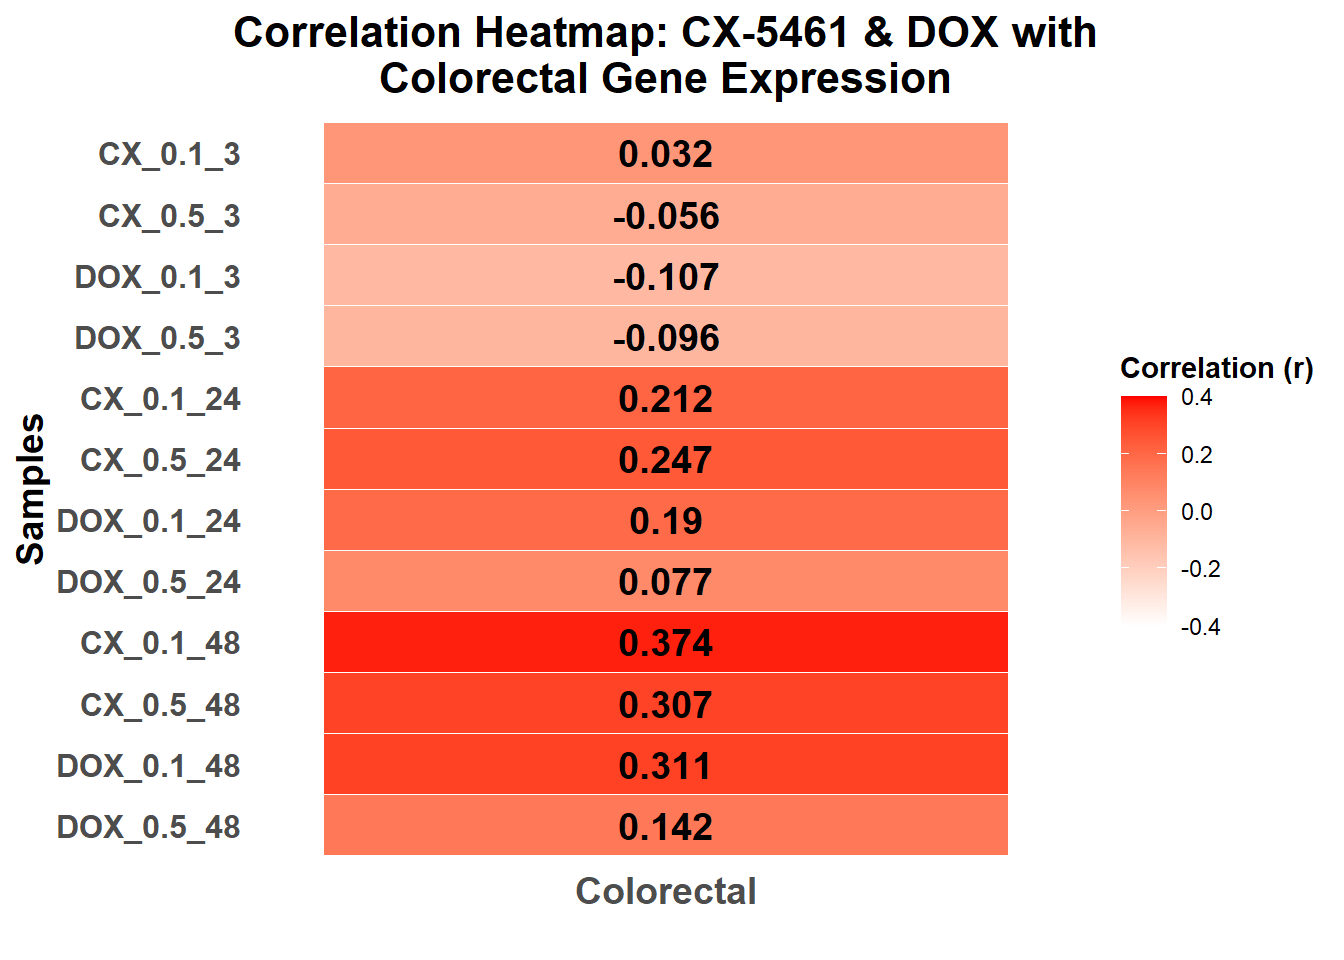
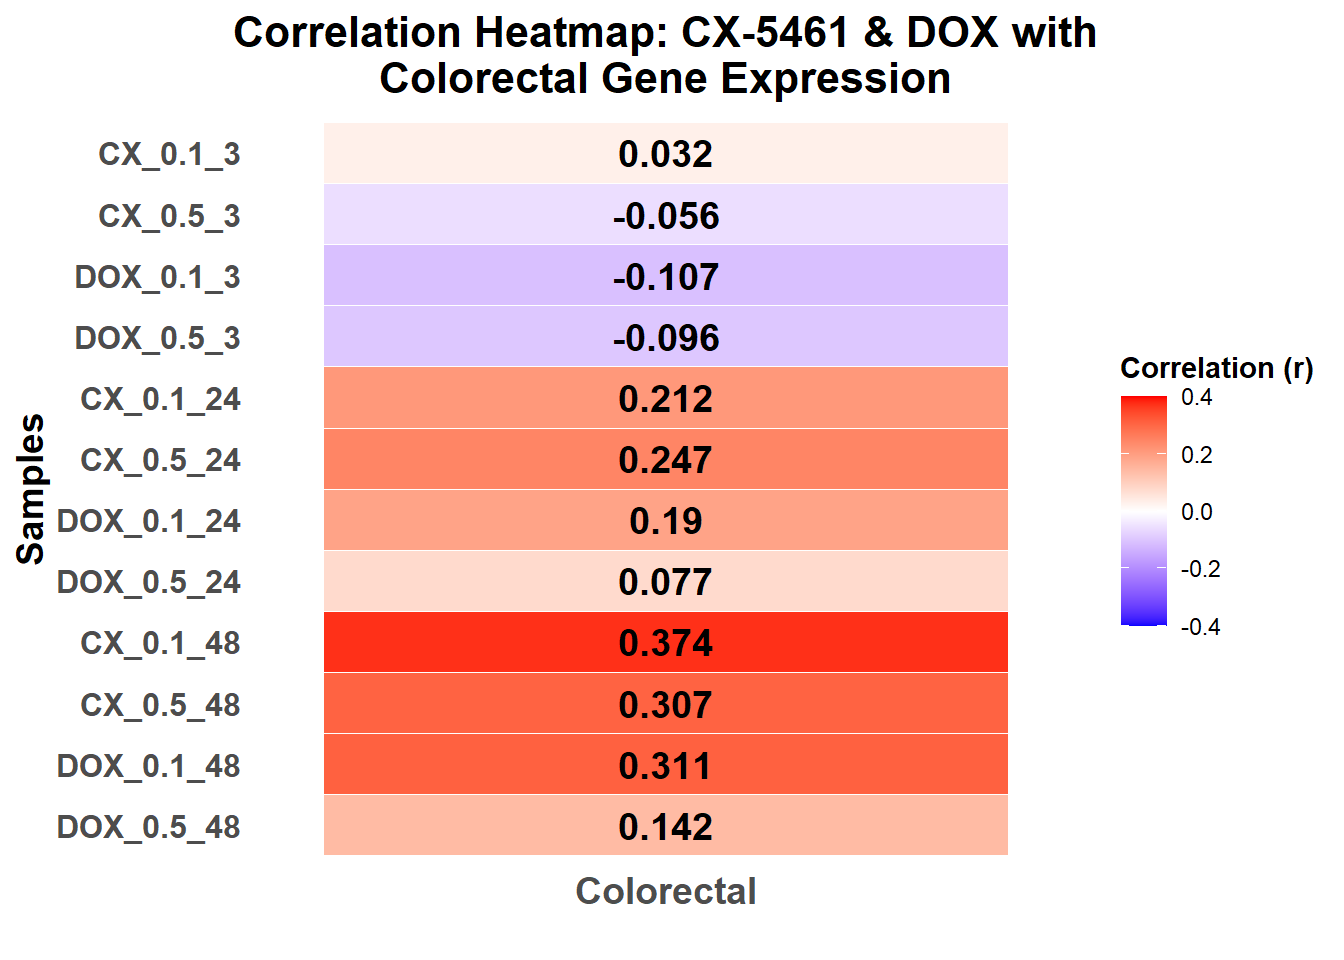
Commit

diff --git a/docs/Colorectal.html b/docs/Colorectal.html
@@ -512,15 +512,15 @@ project makes it easier to run your code on other machines.</p>
 <div class="panel panel-default">
 <div class="panel-heading">
 <p class="panel-title">
-<a data-toggle="collapse" data-parent="#workflowr-checks" href="#strongRepositoryversionstrongahrefhttpsgithubcomsayanpaul01CX5461Projecttree5d2b86bbbc6f58abfdc46257f219eebefa87261ctargetblank5d2b86ba">
+<a data-toggle="collapse" data-parent="#workflowr-checks" href="#strongRepositoryversionstrongahrefhttpsgithubcomsayanpaul01CX5461Projecttree0649bfffae34688f93ecee3af36d3740fd4123e8targetblank0649bffa">
 <span class="glyphicon glyphicon-ok text-success"
 aria-hidden="true"></span> <strong>Repository version:</strong>
-<a href="https://github.com/sayanpaul01/CX5461_Project/tree/5d2b86bbbc6f58abfdc46257f219eebefa87261c" target="_blank">5d2b86b</a>
+<a href="https://github.com/sayanpaul01/CX5461_Project/tree/0649bfffae34688f93ecee3af36d3740fd4123e8" target="_blank">0649bff</a>
 </a>
 </p>
 </div>
 <div
[2 lines of base64/hex data omitted]
 class="panel-collapse collapse">
 <div class="panel-body">
 <p>
@@ -530,7 +530,7 @@ reproducibility.
 </p>
 <p>
 The results in this page were generated with repository version
-<a href="https://github.com/sayanpaul01/CX5461_Project/tree/5d2b86bbbc6f58abfdc46257f219eebefa87261c" target="_blank">5d2b86b</a>.
+<a href="https://github.com/sayanpaul01/CX5461_Project/tree/0649bfffae34688f93ecee3af36d3740fd4123e8" target="_blank">0649bff</a>.
 See the <em>Past versions</em> tab to see a history of the changes made
 to the R Markdown and HTML files.
 </p>
@@ -549,23 +549,24 @@ Ignored files:
     Ignored:    .Rhistory
     Ignored:    .Rproj.user/
     Ignored:    0.1 box.svg
+    Ignored:    Rplot04.svg
+
+Untracked files:
+    Untracked:  0.1 density.svg
+    Untracked:  0.1.emf
+    Untracked:  0.1.svg
+    Untracked:  0.5 box.svg
+    Untracked:  0.5 density.svg
+    Untracked:  0.5.svg
+    Untracked:  Rplot.svg
+    Untracked:  Rplot01.svg
+    Untracked:  Rplot02.svg
+    Untracked:  Rplot03.svg
+    Untracked:  Rplot05.svg
 
 Unstaged changes:
-    Modified:   analysis/Colorectal.Rmd
-
-Staged changes:
     Modified:   .gitignore
-    New:        0.1 density.svg
-    New:        0.1.emf
-    New:        0.1.svg
-    New:        0.5 box.svg
-    New:        0.5 density.svg
-    New:        0.5.svg
-    New:        Rplot.svg
-    New:        Rplot01.svg
-    New:        Rplot02.svg
-    New:        Rplot03.svg
-    New:        Rplot04.svg
+    Modified:   analysis/Colorectal.Rmd
 
 </code></pre>
 <p>
@@ -611,6 +612,40 @@ Message
 </tr>
 </thead>
 <tbody>
+<tr>
+<td>
+Rmd
+</td>
+<td>
+<a href="https://github.com/sayanpaul01/CX5461_Project/blob/0649bfffae34688f93ecee3af36d3740fd4123e8/analysis/Colorectal.Rmd" target="_blank">0649bff</a>
+</td>
+<td>
+sayanpaul01
+</td>
+<td>
+2025-03-30
+</td>
+<td>
+Commit
+</td>
+</tr>
+<tr>
+<td>
+html
+</td>
+<td>
+<a href="https://rawcdn.githack.com/sayanpaul01/CX5461_Project/0649bfffae34688f93ecee3af36d3740fd4123e8/docs/Colorectal.html" target="_blank">0649bff</a>
+</td>
+<td>
+sayanpaul01
+</td>
+<td>
+2025-03-30
+</td>
+<td>
+Commit
+</td>
+</tr>
 <tr>
 <td>
 Rmd
@@ -1040,6 +1075,17 @@ Date
 <tbody>
 <tr>
 <td>
+<a href="https://github.com/sayanpaul01/CX5461_Project/blob/0649bfffae34688f93ecee3af36d3740fd4123e8/docs/figure/Colorectal.Rmd/load_data_tissue-1.png" target="_blank">0649bff</a>
+</td>
+<td>
+sayanpaul01
+</td>
+<td>
+2025-03-30
+</td>
+</tr>
+<tr>
+<td>
 <a href="https://github.com/sayanpaul01/CX5461_Project/blob/1c1e1e44938af2a636ee23b538d65aa1398a443f/docs/figure/Colorectal.Rmd/load_data_tissue-1.png" target="_blank">1c1e1e4</a>
 </td>
 <td>
@@ -1187,6 +1233,17 @@ Date
 </tr>
 </thead>
 <tbody>
+<tr>
+<td>
+<a href="https://github.com/sayanpaul01/CX5461_Project/blob/0649bfffae34688f93ecee3af36d3740fd4123e8/docs/figure/Colorectal.Rmd/load_DEGs-1.png" target="_blank">0649bff</a>
+</td>
+<td>
+sayanpaul01
+</td>
+<td>
+2025-03-30
+</td>
+</tr>
 <tr>
 <td>
 <a href="https://github.com/sayanpaul01/CX5461_Project/blob/3e51d798b2f3f0acf7ff448e36b88f121b1e1b33/docs/figure/Colorectal.Rmd/load_DEGs-1.png" target="_blank">3e51d79</a>
@@ -1345,6 +1402,17 @@ Date
 <tbody>
 <tr>
 <td>
+<a href="https://github.com/sayanpaul01/CX5461_Project/blob/0649bfffae34688f93ecee3af36d3740fd4123e8/docs/figure/Colorectal.Rmd/Data_prep-1.png" target="_blank">0649bff</a>
+</td>
+<td>
+sayanpaul01
+</td>
+<td>
+2025-03-30
+</td>
+</tr>
+<tr>
+<td>
 <a href="https://github.com/sayanpaul01/CX5461_Project/blob/5b6c28574cd9e1304a154babe2b1e69817091aeb/docs/figure/Colorectal.Rmd/Data_prep-1.png" target="_blank">5b6c285</a>
 </td>
 <td>
@@ -1484,6 +1552,17 @@ Date
 <tbody>
 <tr>
 <td>
+<a href="https://github.com/sayanpaul01/CX5461_Project/blob/0649bfffae34688f93ecee3af36d3740fd4123e8/docs/figure/Colorectal.Rmd/Data_prep_24-1.png" target="_blank">0649bff</a>
+</td>
+<td>
+sayanpaul01
+</td>
+<td>
+2025-03-30
+</td>
+</tr>
+<tr>
+<td>
 <a href="https://github.com/sayanpaul01/CX5461_Project/blob/5b6c28574cd9e1304a154babe2b1e69817091aeb/docs/figure/Colorectal.Rmd/Data_prep_24-1.png" target="_blank">5b6c285</a>
 </td>
 <td>
@@ -1621,6 +1700,17 @@ Date
 </tr>
 </thead>
 <tbody>
+<tr>
+<td>
+<a href="https://github.com/sayanpaul01/CX5461_Project/blob/0649bfffae34688f93ecee3af36d3740fd4123e8/docs/figure/Colorectal.Rmd/Data_prep_72-1.png" target="_blank">0649bff</a>
+</td>
+<td>
+sayanpaul01
+</td>
+<td>
+2025-03-30
+</td>
+</tr>
 <tr>
 <td>
 <a href="https://github.com/sayanpaul01/CX5461_Project/blob/5b6c28574cd9e1304a154babe2b1e69817091aeb/docs/figure/Colorectal.Rmd/Data_prep_72-1.png" target="_blank">5b6c285</a>
@@ -1777,6 +1867,17 @@ Date
 </tr>
 </thead>
 <tbody>
+<tr>
+<td>
+<a href="https://github.com/sayanpaul01/CX5461_Project/blob/0649bfffae34688f93ecee3af36d3740fd4123e8/docs/figure/Colorectal.Rmd/prop DNA-1.png" target="_blank">0649bff</a>
+</td>
+<td>
+sayanpaul01
+</td>
+<td>
+2025-03-30
+</td>
+</tr>
 <tr>
 <td>
 <a href="https://github.com/sayanpaul01/CX5461_Project/blob/0aec578ba029d6b945b4201439463119a9a53e32/docs/figure/Colorectal.Rmd/prop DNA-1.png" target="_blank">0aec578</a>
@@ -1959,6 +2060,17 @@ Date
 <tbody>
 <tr>
 <td>
+<a href="https://github.com/sayanpaul01/CX5461_Project/blob/0649bfffae34688f93ecee3af36d3740fd4123e8/docs/figure/Colorectal.Rmd/prop 0.5-1.png" target="_blank">0649bff</a>
+</td>
+<td>
+sayanpaul01
+</td>
+<td>
+2025-03-30
+</td>
+</tr>
+<tr>
+<td>
 <a href="https://github.com/sayanpaul01/CX5461_Project/blob/1c452e8edce05d8c2b57824fd14e295a7ebb85ac/docs/figure/Colorectal.Rmd/prop 0.5-1.png" target="_blank">1c452e8</a>
 </td>
 <td>
@@ -2086,7 +2198,8 @@ heatmap_data_long$Sample &lt;- factor(heatmap_data_long$Sample, levels = rev(c( 
 # Create the correctly ordered single-column heatmap
 ggplot(heatmap_data_long, aes(x = Comparison, y = Sample, fill = value)) +
   geom_tile(color = &quot;white&quot;) +
-  scale_fill_gradient(low = &quot;white&quot;, high = &quot;red&quot;, limits = c(-0.4,0.4)) +  # Updated scale
+  scale_fill_gradient2(
+    low = &quot;blue&quot;, mid = &quot;white&quot;, high = &quot;red&quot;, limits = c(-0.4,0.4)) +  # Updated scale
   geom_text(aes(label = round(value, 3)), color = &quot;black&quot;, size = 5, fontface = &quot;bold&quot;) +
   labs(
     x = &quot;&quot;, y = &quot;Samples&quot;, fill = &quot;Correlation (r)&quot;,
@@ -2124,6 +2237,17 @@ Date
 </tr>
 </thead>
 <tbody>
+<tr>
+<td>
+<a href="https://github.com/sayanpaul01/CX5461_Project/blob/0649bfffae34688f93ecee3af36d3740fd4123e8/docs/figure/Colorectal.Rmd/colr-1.png" target="_blank">0649bff</a>
+</td>
+<td>
+sayanpaul01
+</td>
+<td>
+2025-03-30
+</td>
+</tr>
 <tr>
 <td>
 <a href="https://github.com/sayanpaul01/CX5461_Project/blob/44d47e57f43075712c9c9e2f47905ce90dad5573/docs/figure/Colorectal.Rmd/colr-1.png" target="_blank">44d47e5</a>
